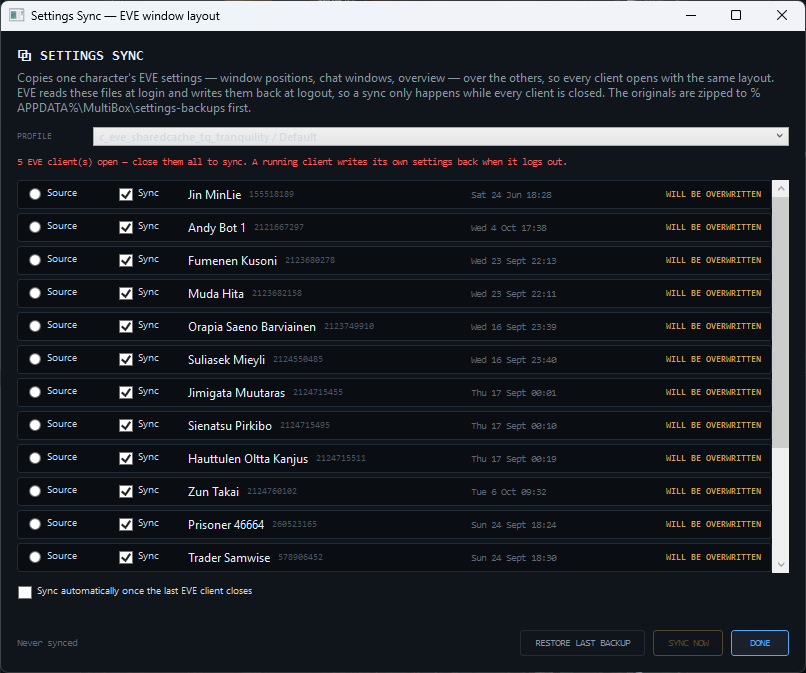
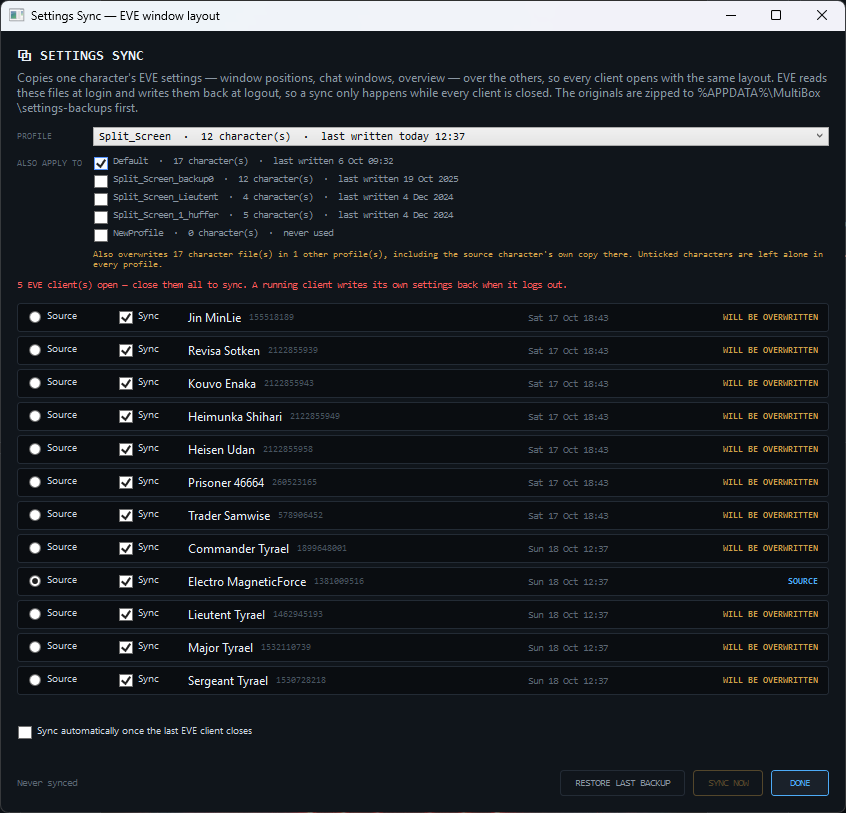
Settings sync: readable profile picker, recaptured screenshot
Capturing the window against live clients showed two display bugs. The
app-wide TextBlock style painted the stock (light) ComboBox's text light
too, leaving the profile picker unreadable; the item text is now set
dark explicitly. Profile checkboxes used string Content, which WPF reads
as an access key, so "Split_Screen_backup0" lost its first underscore;
they now hold a TextBlock.

Also stops the computed IsConfigured from being written into
multibox.json.

settings-sync.png is recaptured from the branch build against the live
clients (SYNC NOW disabled; nothing synced). Default was ticked under
Also apply to only for the capture and unticked afterwards.

diff --git a/src/MultiBox.App/SettingsSyncWindow.xaml b/src/MultiBox.App/SettingsSyncWindow.xaml
@@ -70,9 +70,18 @@
                 <TextBlock Text="PROFILE" VerticalAlignment="Center" Width="76"
                            FontFamily="{StaticResource Mono}" FontSize="9"
                            Foreground="{x:Static local:Palette.TextMuted}"/>
+                <!-- The stock ComboBox stays light, and the app-wide TextBlock style would paint
+                     its text light too, so the item text is set dark explicitly. -->
                 <ComboBox Grid.Column="1" ItemsSource="{Binding Profiles}"
-                          SelectedItem="{Binding SelectedProfile}" DisplayMemberPath="Label"
-                          FontFamily="{StaticResource Mono}" FontSize="11"/>
+                          SelectedItem="{Binding SelectedProfile}"
+                          FontFamily="{StaticResource Mono}" FontSize="11">
+                    <ComboBox.ItemTemplate>
+                        <DataTemplate>
+                            <TextBlock Text="{Binding Label}" FontFamily="{StaticResource Mono}" FontSize="11"
+                                       Foreground="{x:Static local:Palette.Page}"/>
+                        </DataTemplate>
+                    </ComboBox.ItemTemplate>
+                </ComboBox>
             </Grid>
 
             <!-- The launcher assigns a profile per account, so one fleet can read its settings
@@ -98,9 +107,13 @@
                     <ItemsControl ItemsSource="{Binding OtherProfiles}">
                         <ItemsControl.ItemTemplate>
                             <DataTemplate>
-                                <CheckBox Margin="0,0,0,3" Content="{Binding Label}" IsChecked="{Binding IsChecked}"
-                                          FontFamily="{StaticResource Mono}" FontSize="10"
-                                          Foreground="{x:Static local:Palette.TextSecondary}"/>
+                                <!-- A TextBlock rather than string Content: string content is
+                                     read as an access key and loses the first underscore of
+                                     names like Split_Screen. -->
+                                <CheckBox Margin="0,0,0,3" IsChecked="{Binding IsChecked}">
+                                    <TextBlock Text="{Binding Label}" FontFamily="{StaticResource Mono}" FontSize="10"
+                                               Foreground="{x:Static local:Palette.TextSecondary}"/>
+                                </CheckBox>
                             </DataTemplate>
                         </ItemsControl.ItemTemplate>
                     </ItemsControl>

diff --git a/src/MultiBox.Core/Config/SettingsSyncConfig.cs b/src/MultiBox.Core/Config/SettingsSyncConfig.cs
@@ -1,3 +1,5 @@
+using System.Text.Json.Serialization;
+
 namespace MultiBox.Core.Config;
 
 /// <summary>
@@ -32,6 +34,7 @@ public sealed class SettingsSyncConfig
 
     public DateTime? LastSyncUtc { get; set; }
 
+    [JsonIgnore]
     public bool IsConfigured => !string.IsNullOrWhiteSpace(ProfilePath) && SourceCharacterId > 0;
 
     /// <summary>Every id in <paramref name="available"/> except the source and the excluded.</summary>
